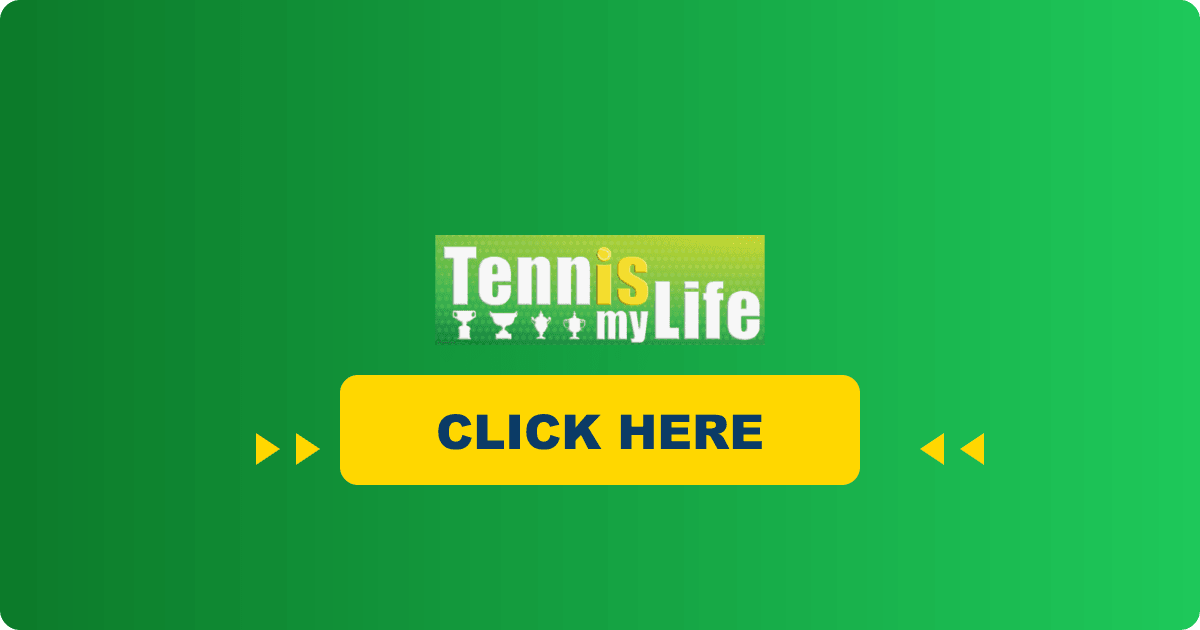
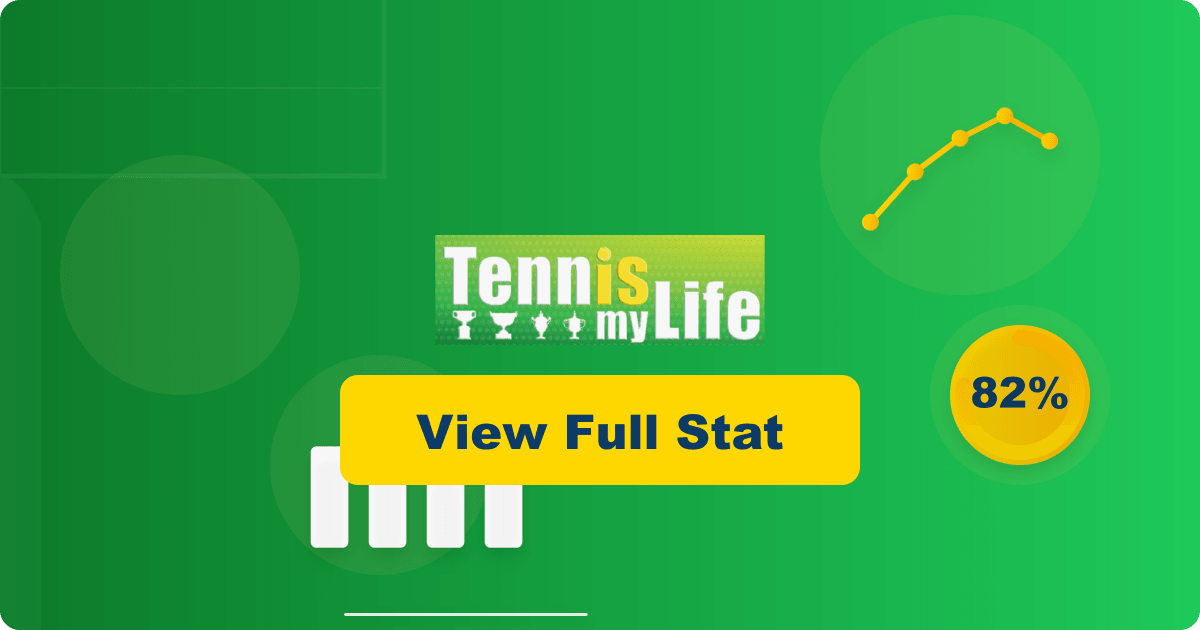
Update

diff --git a/scripts/generate-og.js b/scripts/generate-og.js
@@ -1,0 +1,34 @@
+const path = require('path');
+const fs = require('fs');
+const { execSync } = require('child_process');
+const sharp = require('sharp');
+
+const root = path.join(__dirname, '..');
+const svgPath = path.join(root, 'public', 'og', 'site-preview.svg');
+const pngPath = path.join(root, 'public', 'og', 'site-preview.png');
+
+if (!fs.existsSync(svgPath)) {
+  console.error('SVG not found:', svgPath);
+  process.exit(1);
+}
+
+// Inline logo (reuses existing script)
+try {
+  execSync(`node "${path.join(__dirname, 'inline-logo.js')}"`, { stdio: 'inherit' });
+} catch (err) {
+  console.warn('inline-logo.js failed (continuing):', err.message);
+}
+
+(async () => {
+  try {
+    const svgBuffer = fs.readFileSync(svgPath);
+    await sharp(svgBuffer)
+      .resize(1200, 630, { fit: 'contain' })
+      .png({ quality: 90 })
+      .toFile(pngPath);
+    console.log('Generated', pngPath);
+  } catch (err) {
+    console.error('Error generating PNG:', err);
+    process.exit(1);
+  }
+})();
